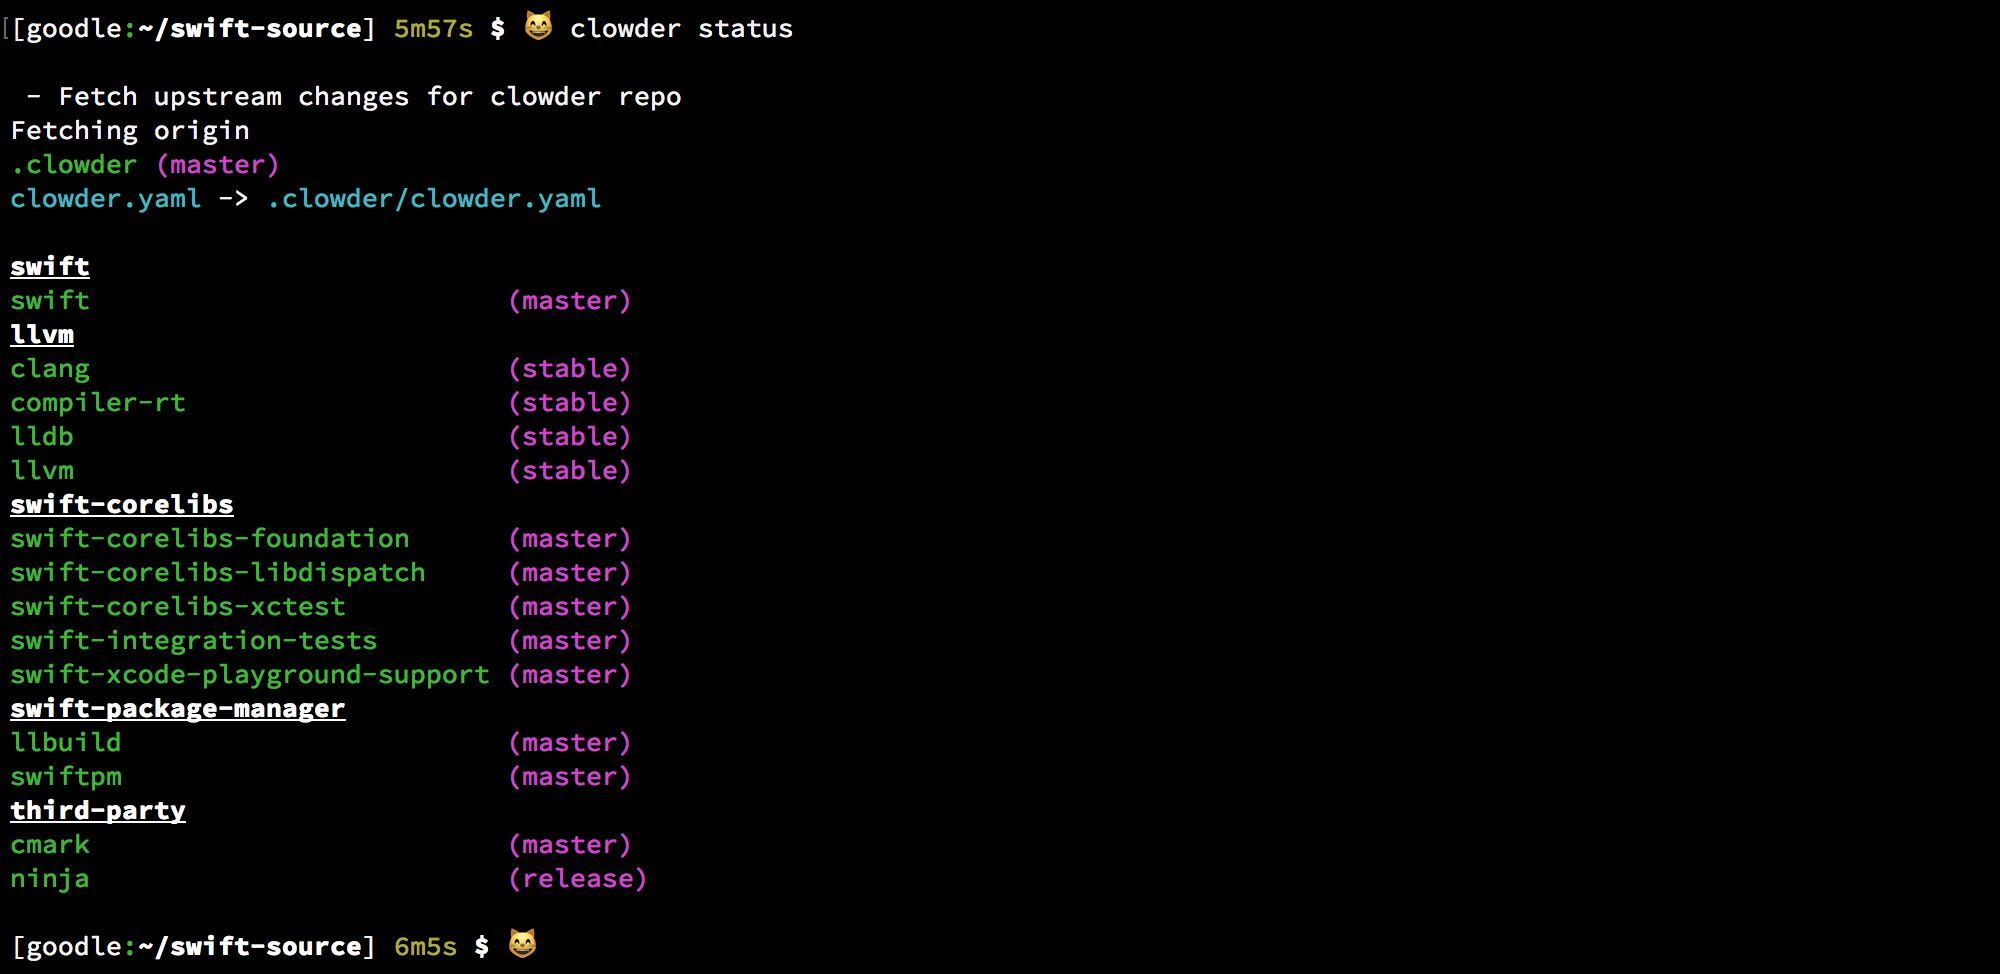
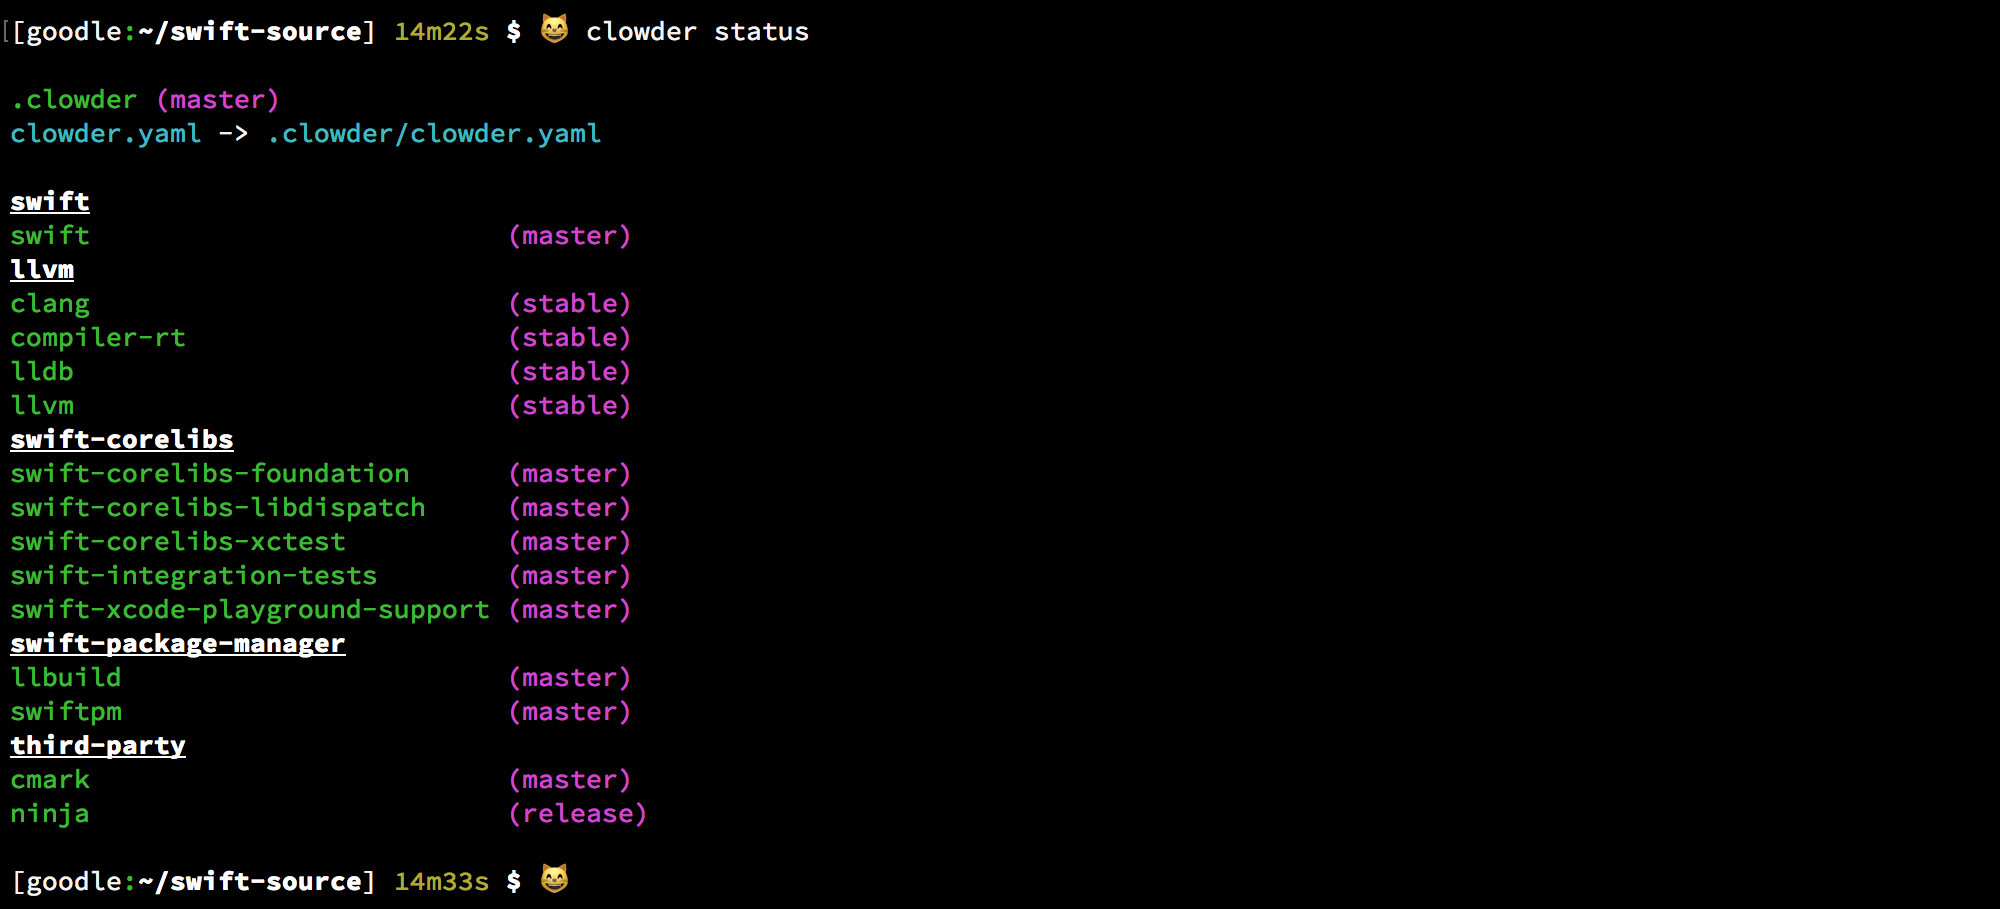
Add more docs

diff --git a/docs/commands.md b/docs/commands.md
@@ -16,6 +16,8 @@
 - [clowder sync](#clowder-sync)
 - [clowder yaml](#clowder-yaml)
 
+Examples based on the [Swift projects clowder.yaml](https://github.com/JrGoodle/swift-clowder/blob/master/clowder.yaml)
+
 ---
 
 ```bash
@@ -28,11 +30,11 @@ $ clowder branch -r
 # Print all local and remote branches
 $ clowder branch -a
 
-# Print local branches in clang group
-$ clowder branch -g clang
+# Print local branches in llvm group
+$ clowder branch -g llvm
 
-# Print local branches in clang project
-$ clowder branch -p llvm-mirror/clang
+# Print local branches in swift project
+$ clowder branch -p apple/swift
 ```
 
 ---
@@ -45,11 +47,11 @@ Discards changes in dirty repositories
 # Discard changes in all projects
 $ clowder clean
 
-# Discard changes in projects in clang group
-$ clowder clean -g clang
+# Discard changes in projects in llvm group
+$ clowder clean -g llvm
 
-# Discard changes in clang project
-$ clowder clean -p llvm-mirror/clang
+# Discard changes in swift project
+$ clowder clean -p apple/swift
 ```
 
 ---
@@ -62,11 +64,11 @@ Equivalent to running `git status -vv` in project directories
 # Print git diff status for all projects
 $ clowder diff
 
-# Print git diff status for projects in clang group
-$ clowder diff -g clang
+# Print git diff status for projects in llvm group
+$ clowder diff -g llvm
 
-# Print git diff status for clang project
-$ clowder diff -p llvm-mirror/clang
+# Print git diff status for swift project
+$ clowder diff -p apple/swift
 ```
 
 ---
@@ -88,17 +90,17 @@ $ clowder forall -ic "git status"
 # Run script in all project directories, ignoring errors
 $ clowder forall -ic "/path/to/script.sh"
 
-# Run command for projects in clang group
-$ clowder forall -c "git status" -g clang
+# Run command for projects in llvm group
+$ clowder forall -c "git status" -g llvm
 
-# Run script for projects in clang group
-$ clowder forall -c "/path/to/script.sh" -g clang
+# Run script for projects in llvm group
+$ clowder forall -c "/path/to/script.sh" -g llvm
 
-# Run command for clang project
-$ clowder forall -c "git status" -p llvm-mirror/clang
+# Run command for swift project
+$ clowder forall -c "git status" -p apple/swift
 
-# Run script for clang project
-$ clowder forall -c "/path/to/script.sh" -p llvm-mirror/clang
+# Run script for swift project
+$ clowder forall -c "/path/to/script.sh" -p apple/swift
 ```
 
 The following environment variables are available for use in commands and scripts:
@@ -122,11 +124,11 @@ $ clowder herd -d 1
 # Herd a specified branch if it exists, otherwise use default ref
 $ clowder herd -b my_branch
 
-# Only herd projects in clang and llvm groups
-$ clowder herd -g clang llvm
+# Only herd projects in swift and llvm groups
+$ clowder herd -g swift llvm
 
-# Only herd clang project
-$ clowder herd -p llvm-mirror/clang
+# Only herd swift project
+$ clowder herd -p apple/swift
 ```
 
 ---
@@ -137,7 +139,7 @@ Clone repo containing `clowder.yaml` file (referred to as the "clowder repo")
 
 ```bash
 # Clone clowder repo
-$ clowder init https://github.com/jrgoodle/llvm-projects.git
+$ clowder init https://github.com/jrgoodle/swift-clowder.git
 
 # Clone clowder repo from branch 'tags'
 $ clowder init https://github.com/jrgoodle/cats.git -b tags
@@ -179,11 +181,11 @@ $ clowder prune -a stale_branch
 # Force prune local and remote branch 'stale_branch' for all projects
 $ clowder prune -af stale_branch
 
-# Prune branch 'stale_branch' in clang group
-$ clowder prune stale_branch -g clang
+# Prune branch 'stale_branch' for projects in llvm group
+$ clowder prune stale_branch -g llvm
 
-# Prune branch 'stale_branch' in clang project
-$ clowder prune stale_branch -p llvm-mirror/clang
+# Prune branch 'stale_branch' in swift project
+$ clowder prune stale_branch -p apple/swift
 ```
 
 ---
@@ -246,11 +248,11 @@ $ clowder start my_feature
 # Create new local and remote tracking branch 'my_feature' for all projects
 $ clowder start -t my_feature
 
-# Create new local branch 'my_feature' in clang group
-$ clowder start my_feature -g clang
+# Create new local branch 'my_feature' for projects in llvm group
+$ clowder start my_feature -g llvm
 
-# Create new local branch 'my_feature' in clang project
-$ clowder start my_feature -p llvm-mirror/clang
+# Create new local branch 'my_feature' in swift project
+$ clowder start my_feature -p apple/swift
 ```
 
 ---
@@ -260,14 +262,14 @@ $ clowder start my_feature -p llvm-mirror/clang
 Stash changes in dirty repositories
 
 ```bash
-# Stash any changes in projects
+# Stash changes in all projects
 $ clowder stash
 
-# Stash any changes in projects in clang group
-$ clowder stash -g clang
+# Stash changes in projects in llvm group
+$ clowder stash -g llvm
 
-# Stash any changes in clang project
-$ clowder stash -p llvm-mirror/clang
+# Stash changes in swift project
+$ clowder stash -p apple/swift
 ```
 
 ---
@@ -280,7 +282,7 @@ Print status of projects
 # Print status of projects
 $ clowder status
 
-# Fetch upstream changes for projects before printing statuses
+# Fetch upstream changes for projects before printing status
 $ clowder status -f
 ```
 
@@ -294,8 +296,8 @@ Sync default fork branches with upstream remotes
 # Sync all forks with upstream remotes
 $ clowder sync
 
-# Sync clang fork with upstream remote
-$ clowder sync -p llvm-mirror/clang
+# Sync swift fork with upstream remote
+$ clowder sync -p apple/swift
 ```
 
 ---

diff --git a/README.md b/README.md
@@ -71,7 +71,7 @@ command -v clowder >/dev/null 2>&1 && eval "$(register-python-argcomplete clowde
 
 # Usage
 
-This example is based on the [Swift projects](https://github.com/apple/swift) (see [the full clowder.yaml](https://github.com/JrGoodle/swift-clowder/blob/master/clowder.yaml))
+This example is based on the [Swift projects](https://github.com/apple/swift) (see the full [Swift projects clowder.yaml](https://github.com/JrGoodle/swift-clowder/blob/master/clowder.yaml))
 
 First reate a directory to contain all the Swift projects
 
@@ -135,6 +135,8 @@ $ clowder prune stale_branch # Prune branch 'stale_branch' for all projects
 
 See the [clowder commands doc](https://github.com/JrGoodle/clowder/blob/master/docs/commands.md)
 for documentation of all command options
+
+For example output from [individual commands](https://github.com/JrGoodle/clowder/blob/master/docs/docs#commands)
 
 ## The `clowder.yaml` file
 

diff --git a/docs/clowder-prune-start.md b/docs/clowder-prune-start.md
@@ -1,0 +1,17 @@
+# `clowder prune` and `clowder start`
+
+Create new local branches
+
+![clowder prune start](clowder-prune-start/clowder-prune-start-1.png)
+
+Print local branches after `clowder start`
+
+![clowder prune start](clowder-prune-start/clowder-prune-start-2.png)
+
+Prune local branches
+
+![clowder prune start](clowder-prune-start/clowder-prune-start-3.png)
+
+Print local branches after `clowder prune`
+
+![clowder prune start](clowder-prune-start/clowder-prune-start-4.png)

diff --git a/docs/clowder-herd.md b/docs/clowder-herd.md
@@ -1,6 +1,6 @@
 # `clowder herd`
 
-The output from an initial invocation of `clowder herd` for the [Swift clowder repo](https://github.com/JrGoodle/swift-clowder)
+Subset of the output from an initial invocation of `clowder herd` for the [Swift clowder repo](https://github.com/JrGoodle/swift-clowder) after running `clowder init`
 
 ![clowder herd swift](clowder-herd/clowder-herd-1.png)
 

diff --git a/docs/README.md b/docs/README.md
@@ -11,7 +11,11 @@
 
 - [Command Reference](commands.md)
     - Description of all `clowder` commands
-- [clowder-herd](clowder-herd.md)
+- [clowder branch](clowder-branch.md)
+- [clowder clean and clowder diff](clowder-clean-diff.md)
+- [clowder forall](clowder-forall.md)
+- [clowder herd](clowder-herd.md)
+- [clowder prune and clowder start](clowder-prune-start.md)
 
 ## Development
 

diff --git a/docs/clowder-clean-diff.md b/docs/clowder-clean-diff.md
@@ -1,0 +1,13 @@
+# `clowder clean` and `clowder diff`
+
+Create new tracked and untracked files and print diff
+
+![clowder clean diff](clowder-clean-diff/clowder-clean-diff-1.png)
+
+Clean projects
+
+![clowder clean diff](clowder-clean-diff/clowder-clean-diff-2.png)
+
+Print diff
+
+![clowder clean diff](clowder-clean-diff/clowder-clean-diff-3.png)

diff --git a/docs/clowder-forall.md b/docs/clowder-forall.md
@@ -1,0 +1,13 @@
+# `clowder forall`
+
+Print current diff
+
+![clowder forall](clowder-forall/clowder-forall-1.png)
+
+Run command in project directories
+
+![clowder forall](clowder-forall/clowder-forall-2.png)
+
+Print diff after running command
+
+![clowder forall](clowder-forall/clowder-forall-3.png)

diff --git a/docs/clowder-branch.md b/docs/clowder-branch.md
@@ -1,0 +1,13 @@
+# `clowder branch`
+
+Print local branches
+
+![clowder branch](clowder-branch/clowder-branch.png)
+
+Print remote branches
+
+![clowder branch -r](clowder-branch/clowder-branch-r.png)
+
+Print local and remote branches
+
+![clowder branch -a](clowder-branch/clowder-branch-a.png)
